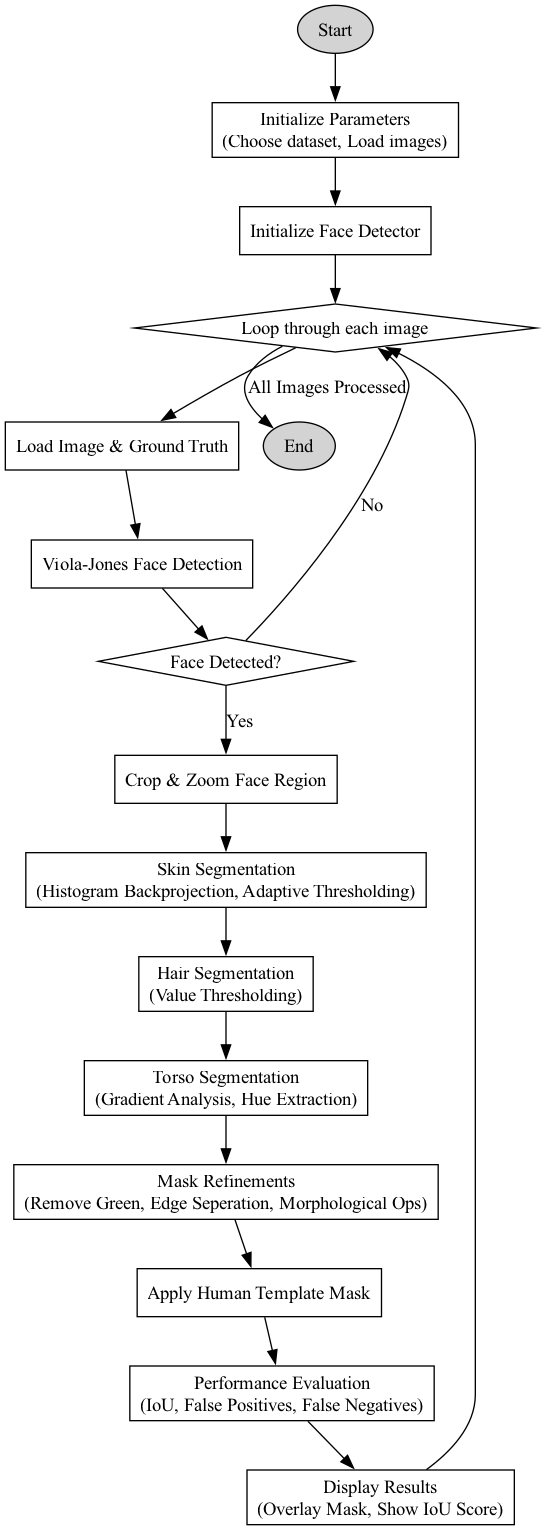
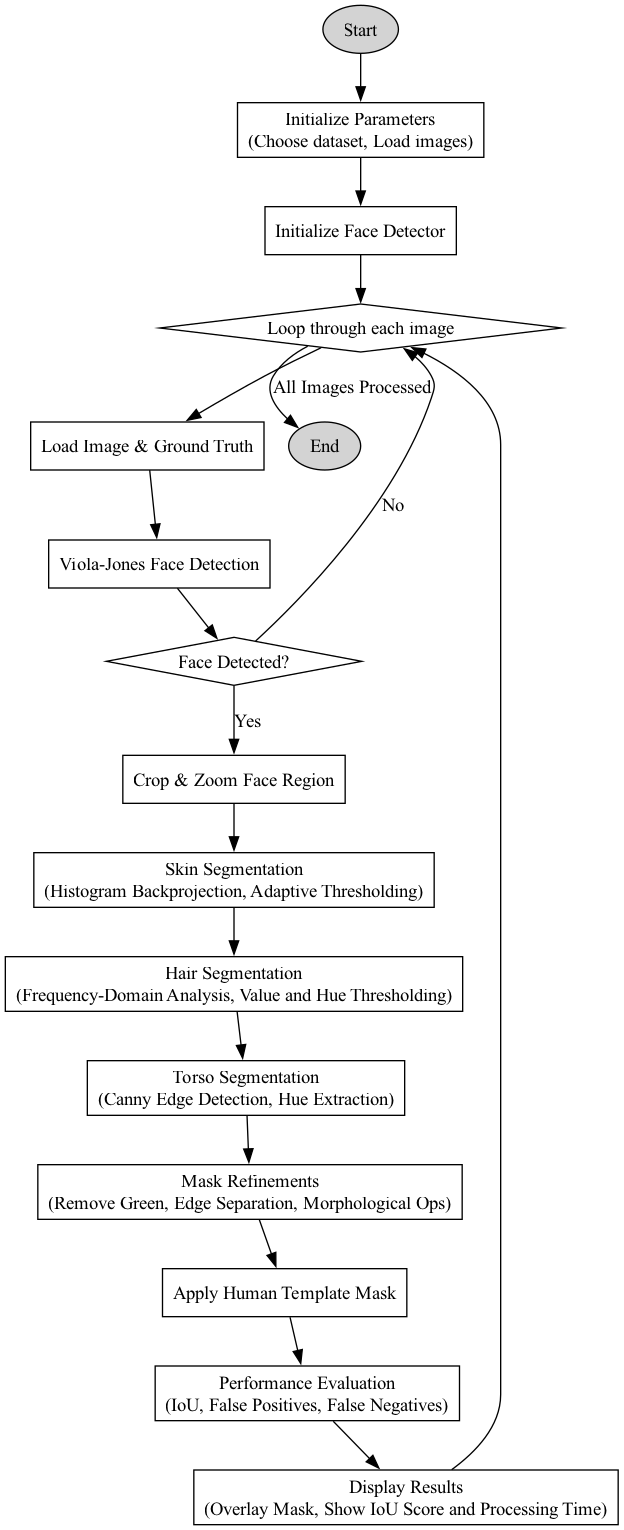
Updated flowchart

diff --git a/flowchart_files/flowchart.py b/flowchart_files/flowchart.py
@@ -23,20 +23,20 @@ def create_flowchart():
     dot.node('SkinSegment', 'Skin Segmentation\n(Histogram Backprojection, Adaptive Thresholding)', shape='rectangle')
     
     # Hair Segmentation
-    dot.node('HairSegment', 'Hair Segmentation\n(Value Thresholding)', shape='rectangle')
+    dot.node('HairSegment', 'Hair Segmentation\n(Frequency-Domain Analysis, Value and Hue Thresholding)', shape='rectangle')
     
     # Torso Segmentation
-    dot.node('TorsoSegment', 'Torso Segmentation\n(Gradient Analysis, Hue Extraction)', shape='rectangle')
+    dot.node('TorsoSegment', 'Torso Segmentation\n(Canny Edge Detection, Hue Extraction)', shape='rectangle')
     
     # Refinements
-    dot.node('Refine', 'Mask Refinements\n(Remove Green, Edge Seperation, Morphological Ops)', shape='rectangle')
+    dot.node('Refine', 'Mask Refinements\n(Remove Green, Edge Separation, Morphological Ops)', shape='rectangle')
     dot.node('Template', 'Apply Human Template Mask', shape='rectangle')
     
     # Evaluation
     dot.node('Evaluation', 'Performance Evaluation\n(IoU, False Positives, False Negatives)', shape='rectangle')
     
     # Display Results
-    dot.node('Display', 'Display Results\n(Overlay Mask, Show IoU Score)', shape='rectangle')
+    dot.node('Display', 'Display Results\n(Overlay Mask, Show IoU Score and Processing Time)', shape='rectangle')
     
     # End
     dot.node('End', 'End', shape='ellipse', style='filled', fillcolor='lightgray')
